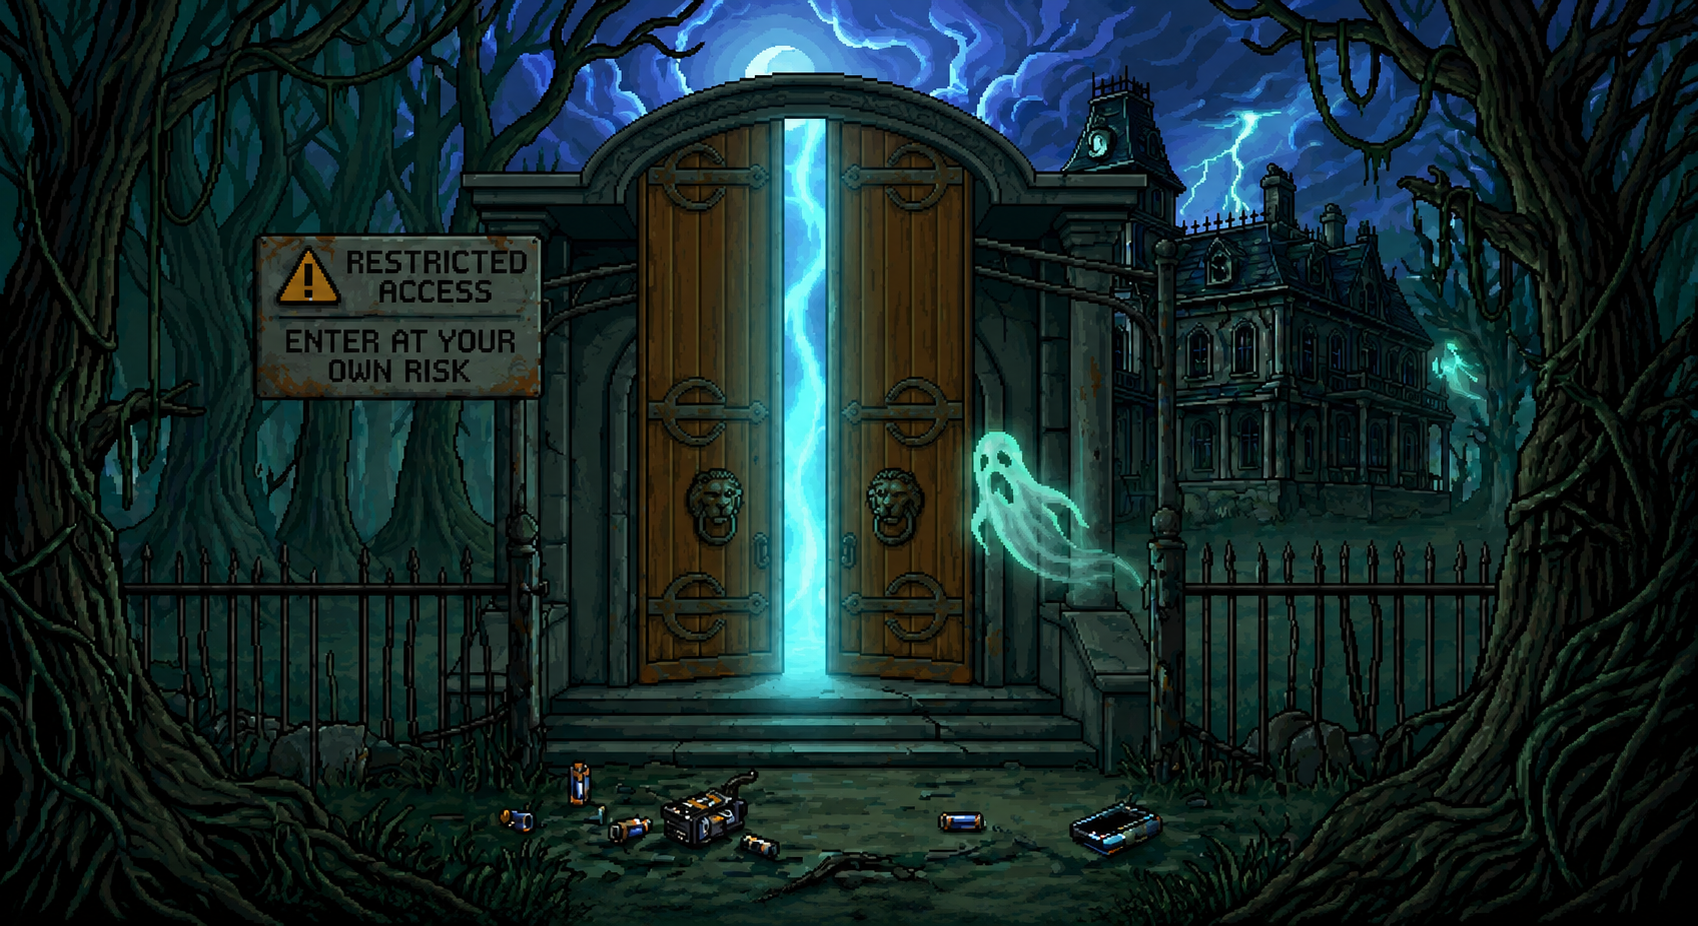
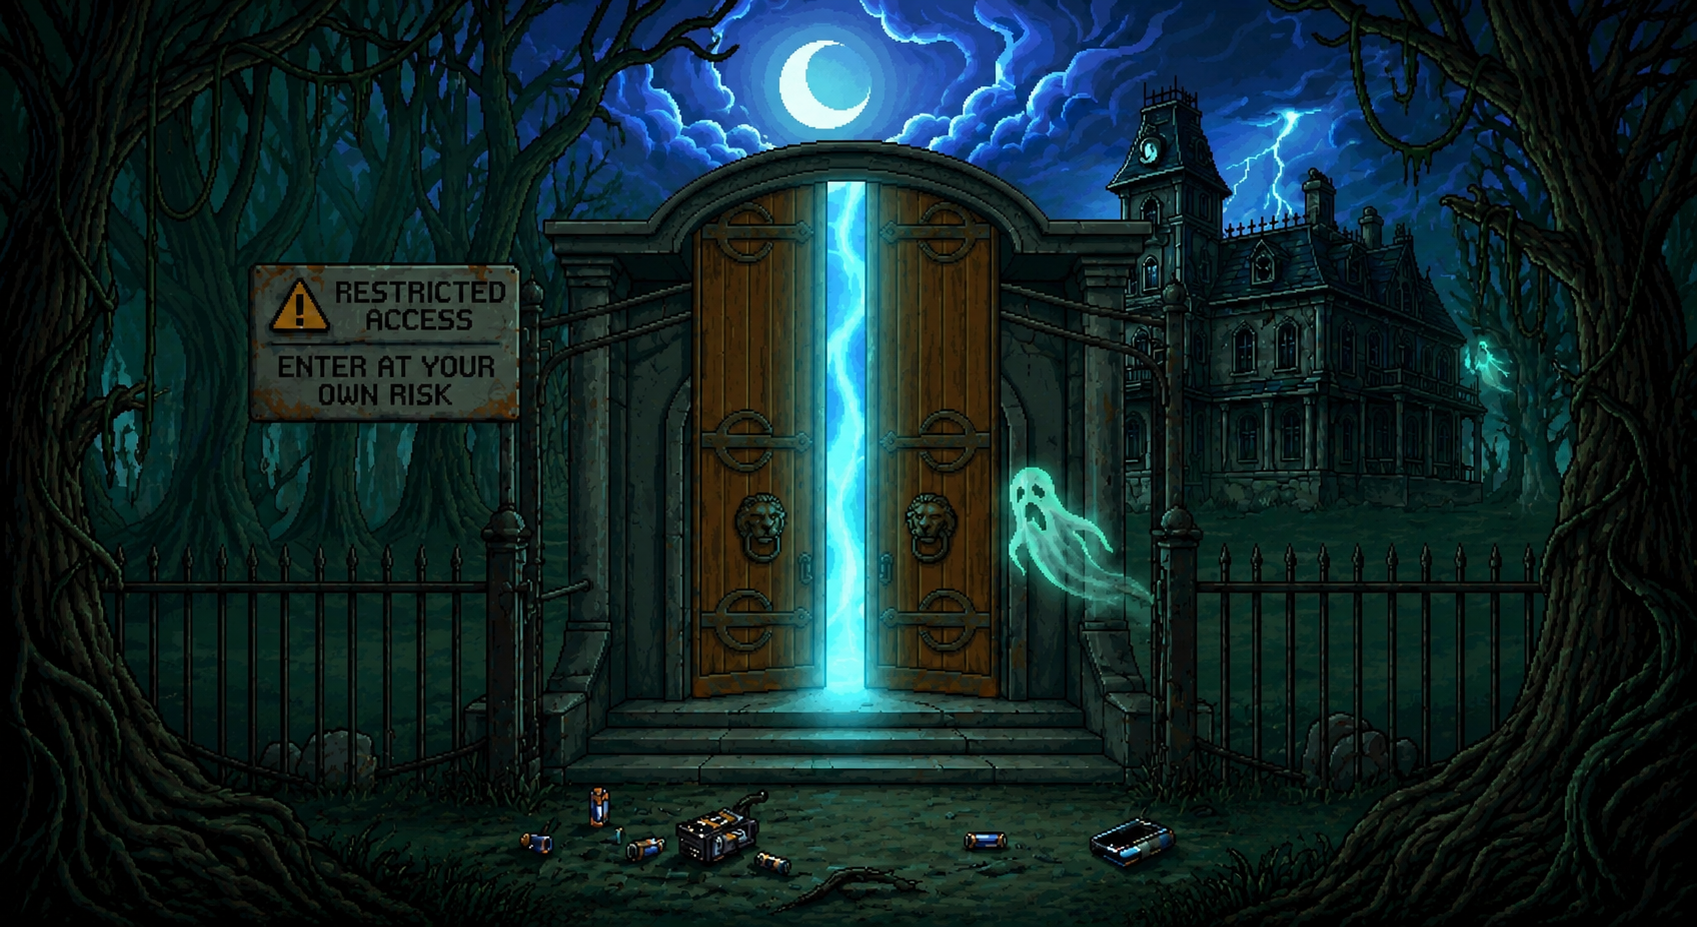
Update SceneManager

diff --git a/src/GhostHunterINC/SceneManager.java b/src/GhostHunterINC/SceneManager.java
@@ -44,7 +44,7 @@ public class SceneManager {
 	    try {
 	        Font loadedFont = Font.loadFont(fontPath, 14);
 	        if (loadedFont != null) {
-	            System.out.println("Font Yüklendi: " + loadedFont.getFamily());
+	            System.out.println("Font has been uploaded successfuly: " + loadedFont.getFamily());
 	        } else {
 	            System.out.println("Font bulunamadı, yol yanlış olabilir: " + fontPath);
 	        }
@@ -112,25 +112,75 @@ public class SceneManager {
 		selectMenuView.fitHeightProperty().bind(stage.heightProperty());
 		selectMenuView.setPreserveRatio(false);
 		
-		VBox centerLayout = new VBox(20);
-		centerLayout.setAlignment(Pos.CENTER); //Align the buttons in the center of VBox
+		VBox mainLayout = new VBox(40);
+		mainLayout.setAlignment(Pos.CENTER); //Align the buttons in the center of VBox
 		
-		Button levelEasyButton = new Button("Easy");
-		Button levelMediumButton = new Button("Medium");
-		Button levelHardButton = new Button("Hard");
+		Label menuTitle = new Label("CHOOSE LOCATION");
+		menuTitle.setTextFill(Color.web("#4dfa9a"));
+		menuTitle.setStyle("-fx-font-family: Creepster; -fx-font-size: 50px; -fx-font-weight: bold;");
 		
-		levelEasyButton.setStyle(BUTTON_STYLE);
-		levelMediumButton.setStyle(BUTTON_STYLE);
-		levelHardButton.setStyle(BUTTON_STYLE);
+		VBox mapsLayout = new VBox(40);
+		mapsLayout.setAlignment(Pos.CENTER);
 		
-		levelEasyButton.prefWidthProperty().bind(stage.widthProperty().divide(4));
-	    levelMediumButton.prefWidthProperty().bind(stage.widthProperty().divide(4));
-	    levelHardButton.prefWidthProperty().bind(stage.widthProperty().divide(4));
+		ImageView level1View = new ImageView(new Image("file:level1Picture.png"));
+		ImageView level2View = new ImageView(new Image("file:level2Picture.png"));
+		ImageView level3View = new ImageView(new Image("file:level3Picture.png"));
+		
+		ImageView[] mapViews = {level1View, level2View, level3View};
+		for (ImageView view : mapViews) {
+			view.setFitWidth(170);
+			view.setFitHeight(120);
+			view.setPreserveRatio(false);
+		}
+		
+		Label lbl1 = new Label("1");
+		Label lbl2 = new Label("2");
+		Label lbl3 = new Label("3");
+		
+		Label[] levelLabels = {lbl1, lbl2, lbl3};
+		for (Label lbl : levelLabels) {
+			lbl.setTextFill(Color.WHITE);
+			lbl.setStyle("-fx-font-family: Creepster; -fx-font-size: 75px; -fx-font-weight: bold;"
+					   + "-fx-effect: dropshadow(three-pass-box, rgba(0,0,0,0.8), 5, 0.0, 0, 0);");
+		}
+		
+		StackPane easyButtonContent1 = new StackPane(level1View, lbl1);
+		StackPane mediumButtonContent2 = new StackPane(level2View, lbl2);
+		StackPane hardButtonContent3 = new StackPane(level3View, lbl3);
+		
+		Button levelEasyButton = new Button();
+		Button levelMediumButton = new Button();
+		Button levelHardButton = new Button();
+		
+		levelEasyButton.setGraphic(easyButtonContent1);
+		levelMediumButton.setGraphic(mediumButtonContent2);
+		levelHardButton.setGraphic(hardButtonContent3);
+		
+		String mapButtonStyle = "-fx-background-color: rgba(0, 0, 0, 0);"
+	              + "-fx-border-color: #4dfa9a;"
+	              + "-fx-border-width: 3px;"
+	              + "-fx-padding: 0;"
+	              + "-fx-background-radius: 0;"
+	              + "-fx-border-radius: 0;";
+		
 
-	    levelEasyButton.prefHeightProperty().bind(stage.heightProperty().divide(10));
-	    levelMediumButton.prefHeightProperty().bind(stage.heightProperty().divide(10));
-	    levelHardButton.prefHeightProperty().bind(stage.heightProperty().divide(10));
+
+		levelEasyButton.setStyle(mapButtonStyle);
+		levelMediumButton.setStyle(mapButtonStyle);
+		levelHardButton.setStyle(mapButtonStyle);
 		
+		Button[] mapButtons = {levelEasyButton, levelMediumButton, levelHardButton};
+		for (Button btn : mapButtons) {
+
+			btn.setOnMouseEntered(e -> {
+				btn.setStyle(mapButtonStyle + "-fx-border-color: #ffffff; -fx-effect: dropshadow(gaussian, #4dfa9a, 15, 0.5, 0, 0);");
+			});
+
+			btn.setOnMouseExited(e -> {
+				btn.setStyle(mapButtonStyle);
+			});
+		}
+
 		Button returnMainMenuButton = new Button("Main Menu");
 		
 		returnMainMenuButton.setStyle(BUTTON_STYLE);
@@ -138,18 +188,22 @@ public class SceneManager {
 		returnMainMenuButton.prefWidthProperty().bind(stage.widthProperty().divide(4));	
 		returnMainMenuButton.prefHeightProperty().bind(stage.heightProperty().divide(10));
 		
-		applyButtonStyles(stage.getWidth(), levelEasyButton, levelMediumButton, levelHardButton, returnMainMenuButton);
+		applyButtonStyles(stage.getWidth(), returnMainMenuButton);
 		
 		stage.widthProperty().addListener((obs, oldVal, newVal) -> {
-			applyButtonStyles(newVal.doubleValue(), levelEasyButton, levelMediumButton, levelHardButton, returnMainMenuButton);
+			applyButtonStyles(newVal.doubleValue(), returnMainMenuButton);
 		});
 	    
-	    centerLayout.getChildren().addAll(levelEasyButton, levelMediumButton, levelHardButton, returnMainMenuButton);
+	    mapsLayout.getChildren().addAll(levelEasyButton, levelMediumButton, levelHardButton);
+	    mainLayout.getChildren().add(mapsLayout);
 		
-	    mainPane.getChildren().addAll(selectMenuView, centerLayout);
+	    mainPane.getChildren().addAll(selectMenuView, mainLayout, returnMainMenuButton, menuTitle);
+	    
+		StackPane.setAlignment(returnMainMenuButton, Pos.BOTTOM_RIGHT); //Align the main menu button in the right (bottom) of border pane
+		StackPane.setMargin(returnMainMenuButton, new Insets(10)); //Add spacing from the edges
 		
-		BorderPane.setAlignment(returnMainMenuButton, Pos.CENTER_RIGHT); //Align the main menu button in the right (bottom) of border pane
-		BorderPane.setMargin(returnMainMenuButton, new Insets(10)); //Add spacing from the edges
+		StackPane.setAlignment(menuTitle, Pos.TOP_CENTER);
+		StackPane.setMargin(menuTitle, new Insets(130));
 		
 		returnMainMenuButton.setOnAction(e -> switchScene(mainMenu())); //Return to main menu from Level Selection Menu
 		levelEasyButton.setOnAction(e -> gameEngine.startGame(1, stage, this));
